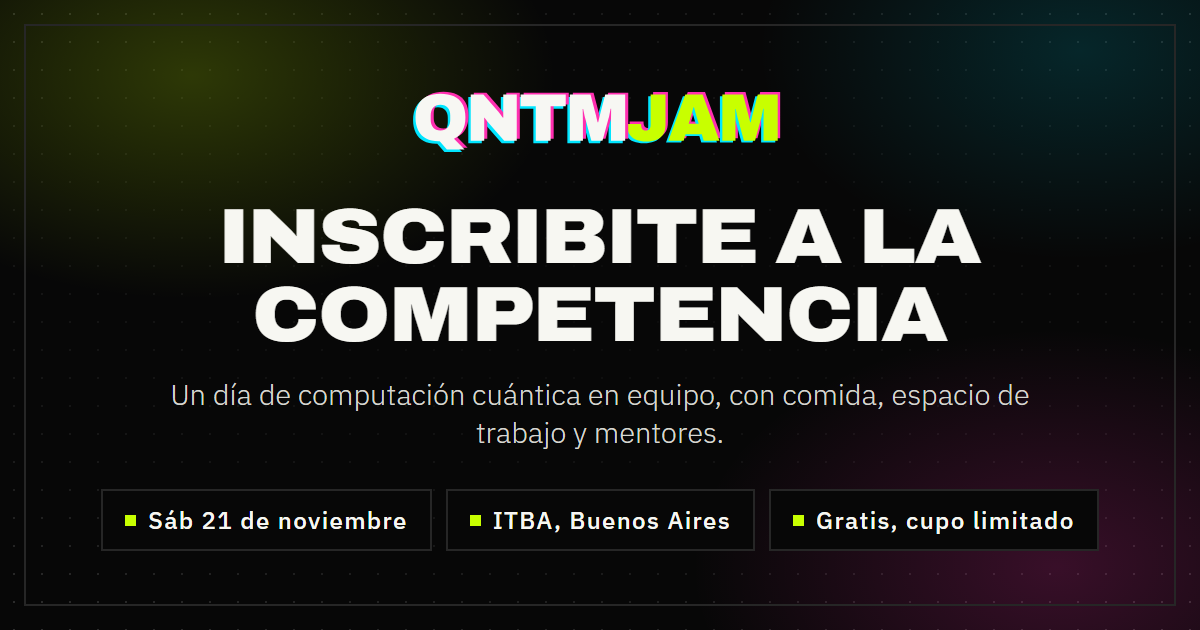
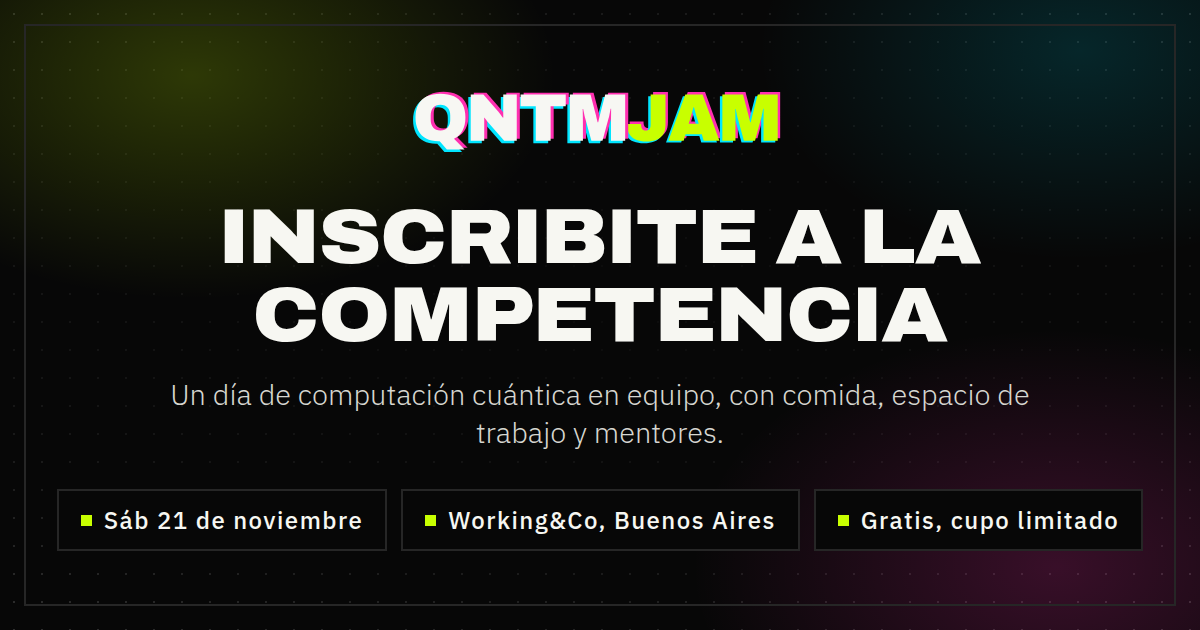
fix: direccion del evento

diff --git a/index.html b/index.html
@@ -13,10 +13,12 @@
       href="https://fonts.googleapis.com/css2?family=Archivo:ital,wdth,wght@0,62.5..125,100..900;1,62.5..125,100..900&family=IBM+Plex+Sans:wght@300;400;500;600&display=swap"
       rel="stylesheet"
     />
-    <title>QuantumJam: competencia de computación cuántica en el ITBA</title>
+    <title>
+      QuantumJam: competencia de computación cuántica en Working&amp;Co
+    </title>
     <meta
       name="description"
-      content="Workshops virtuales y una competencia presencial de computación cuántica en el ITBA, parte del Qiskit Fall Fest 2026. Sábado 21 de noviembre. Gratis, cupo limitado."
+      content="Workshops virtuales y una competencia presencial de computación cuántica en Working&amp;Co, parte del Qiskit Fall Fest 2026. Sábado 21 de noviembre. Gratis, cupo limitado."
     />
     <meta name="theme-color" content="#070707" />
     <link rel="canonical" href="https://quantumjam.com.ar/" />
@@ -26,11 +28,11 @@
     <meta property="og:url" content="https://quantumjam.com.ar/" />
     <meta
       property="og:title"
-      content="QuantumJam: competencia de computación cuántica en el ITBA"
+      content="QuantumJam: competencia de computación cuántica en Working&amp;Co"
     />
     <meta
       property="og:description"
-      content="Workshops virtuales y una competencia presencial de computación cuántica en el ITBA, parte del Qiskit Fall Fest 2026. Sábado 21 de noviembre. Gratis, cupo limitado."
+      content="Workshops virtuales y una competencia presencial de computación cuántica en Working&amp;Co, parte del Qiskit Fall Fest 2026. Sábado 21 de noviembre. Gratis, cupo limitado."
     />
     <meta property="og:locale" content="es_AR" />
     <meta property="og:locale:alternate" content="en_US" />
@@ -43,17 +45,17 @@
     <meta property="og:image:height" content="630" />
     <meta
       property="og:image:alt"
-      content="QuantumJam. Sábado 21 de noviembre en el ITBA, Buenos Aires. Gratis, cupo limitado."
+      content="QuantumJam. Sábado 21 de noviembre en Working&amp;Co, Buenos Aires. Gratis, cupo limitado."
     />
 
     <meta name="twitter:card" content="summary_large_image" />
     <meta
       name="twitter:title"
-      content="QuantumJam: competencia de computación cuántica en el ITBA"
+      content="QuantumJam: competencia de computación cuántica en Working&amp;Co"
     />
     <meta
       name="twitter:description"
-      content="Workshops virtuales y una competencia presencial de computación cuántica en el ITBA, parte del Qiskit Fall Fest 2026. Sábado 21 de noviembre. Gratis, cupo limitado."
+      content="Workshops virtuales y una competencia presencial de computación cuántica en Working&amp;Co, parte del Qiskit Fall Fest 2026. Sábado 21 de noviembre. Gratis, cupo limitado."
     />
     <meta
       name="twitter:image"
@@ -61,7 +63,7 @@
     />
     <meta
       name="twitter:image:alt"
-      content="QuantumJam. Sábado 21 de noviembre en el ITBA, Buenos Aires. Gratis, cupo limitado."
+      content="QuantumJam. Sábado 21 de noviembre en Working&amp;Co, Buenos Aires. Gratis, cupo limitado."
     />
 
     <script type="application/ld+json">
@@ -69,7 +71,7 @@
         "@context": "https://schema.org",
         "@type": "Event",
         "name": "QuantumJam",
-        "description": "Workshops virtuales y una competencia presencial de computación cuántica en el ITBA, parte del Qiskit Fall Fest 2026. Sábado 21 de noviembre. Gratis, cupo limitado.",
+        "description": "Workshops virtuales y una competencia presencial de computación cuántica en Working&Co, parte del Qiskit Fall Fest 2026. Sábado 21 de noviembre. Gratis, cupo limitado.",
         "startDate": "2026-11-21",
         "eventStatus": "https://schema.org/EventScheduled",
         "eventAttendanceMode": "https://schema.org/OfflineEventAttendanceMode",
@@ -79,10 +81,10 @@
         "url": "https://quantumjam.com.ar/",
         "location": {
           "@type": "Place",
-          "name": "ITBA, Sede Distrito Financiero",
+          "name": "Working&Co Niceto Vega",
           "address": {
             "@type": "PostalAddress",
-            "streetAddress": "San Martín 202",
+            "streetAddress": "Niceto Vega 4601",
             "addressLocality": "Buenos Aires",
             "addressCountry": "AR"
           }

diff --git a/src/components/landing/Footer.tsx b/src/components/landing/Footer.tsx
@@ -183,7 +183,7 @@ export function Footer() {
               {t('footer.links.email')}
             </a>
             <a
-              href="https://www.itba.edu.ar/"
+              href="https://maps.app.goo.gl/W33fFn4cnBmLFaNz7"
               className="text-brand-text-dim hover:text-foreground text-[0.85rem] transition-colors"
             >
               {t('footer.links.place')}
